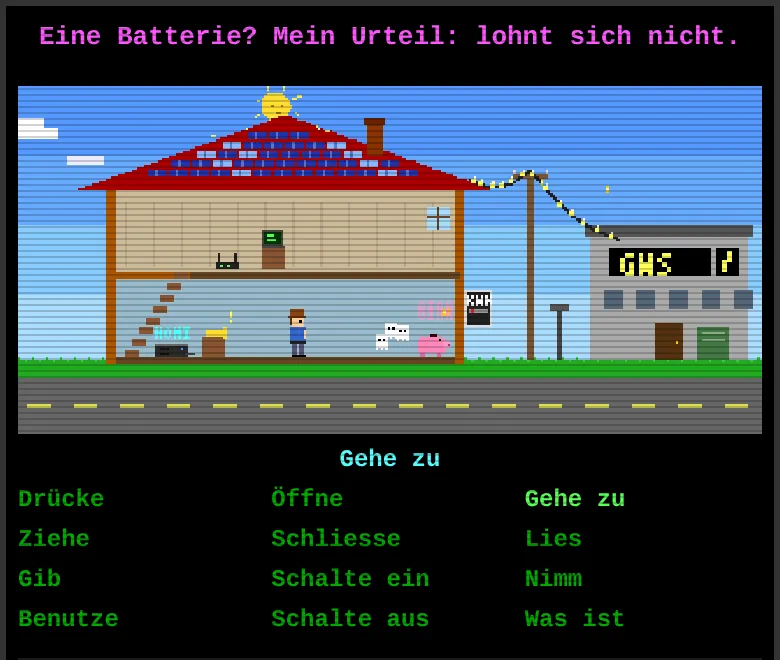
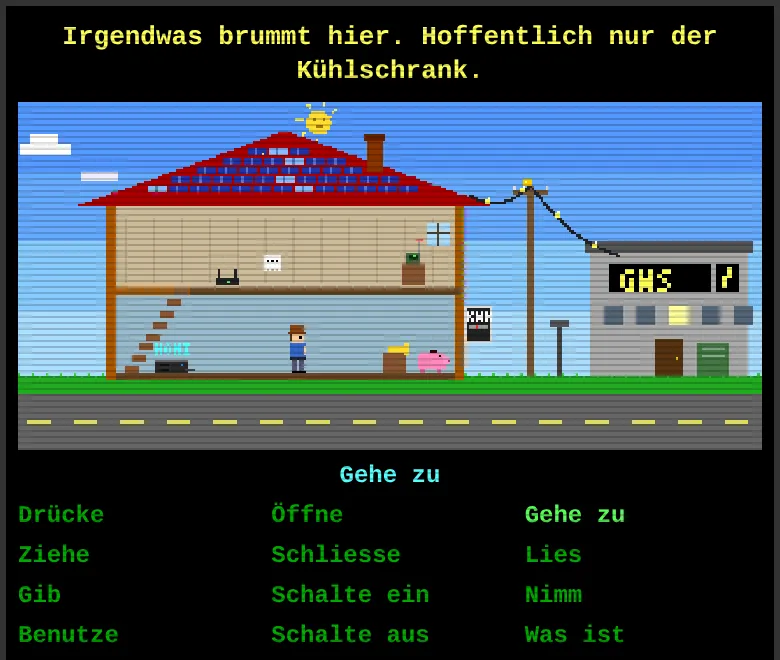
Domus-Beitrag: nur Retro-Screenshots, Homebrew-Ton mit 25 Jahren Infrastruktur, Bilder zweispaltig

diff --git a/index.html b/index.html
@@ -57,14 +57,14 @@ Der Fokus liegt auf verständlicher Beratung, technisch sauberen Lösungen und e
     <h2>🎮 Unser Haus als Retro-Adventure</h2>
     <p>Ich wollte eigentlich nur wissen, was unsere Solaranlage gerade so treibt. Herausgekommen ist ein kleines Pixel-Häuschen, das auf <a href="https://home.biber.solar" target="_blank" rel="noopener">home.biber.solar</a> lebt, mit dem Wetter mitzieht und mir nebenbei zeigt, ob ich mit der Sonne gerade Geld verdiene oder verbrate.</p>
     <div class="handy-reihe">
-        <figure><img src="domus-retro-haus.webp" alt="Pixel-Haus mit Solardach, Figur, Sparschwein und dem Gebäude der Gemeindewerke auf dem Handy" loading="lazy" width="390" height="330"><figcaption>Das Haus, live</figcaption></figure>
-        <figure><img src="domus-retro-knopf.webp" alt="Grosser roter Knopf «Wechselrichter AUS» in gelb-schwarz gestreiftem Rahmen" loading="lazy" width="372" height="565"><figcaption>Der rote Knopf</figcaption></figure>
-        <figure><img src="domus-app-uebersicht.webp" alt="homi-App: Energiefluss von Solar, Haus und Netz mit Tageswerten" loading="lazy" width="390" height="844"><figcaption>homi als App</figcaption></figure>
-        <figure><img src="domus-app-berater.webp" alt="homi-App: Energieberater mit drei Tipps und Ersparnis pro Jahr" loading="lazy" width="390" height="844"><figcaption>Der Energieberater</figcaption></figure>
+        <figure><img src="domus-retro-haus.webp" alt="Pixel-Haus mit Solardach, Figur, Sparschwein und dem Gebäude der Gemeindewerke" loading="lazy" width="390" height="330"><figcaption>Das Haus, live</figcaption></figure>
+        <figure><img src="domus-retro-knopf.webp" alt="Grosser roter Knopf «Wechselrichter AUS» in gelb-schwarz gestreiftem Rahmen" loading="lazy" width="372" height="409"><figcaption>Der rote Knopf</figcaption></figure>
+        <figure><img src="domus-retro-kasse.webp" alt="Kassenbuch: Solarleistung, Verbrauch, Netz und was ich gerade bezahle oder bekomme" loading="lazy" width="390" height="272"><figcaption>Das Kassenbuch</figcaption></figure>
+        <figure><img src="domus-retro-berater.webp" alt="Wochenbericht und Energieberater mit drei Tipps in Franken" loading="lazy" width="390" height="264"><figcaption>Berater &amp; Wochenbericht</figcaption></figure>
     </div>
-    <p>Das Dach trägt Solarkacheln, die im Sonnenlicht glitzern, eine kleine Figur mit Hut stapft ums Haus – und im Hintergrund rechnet homi in Echtzeit mit. Alle paar Sekunden holt es frische Zahlen vom Fronius, zieht die Stromtarife der Gemeindewerke und die Börsenpreise dazu und lässt Münzen über den Bildschirm kullern: Fliesst Geld ins Sparschwein, war die Sonne heute meine Kollegin; fliesst es raus, hört man ein leises «OINK».</p>
-    <p>Inzwischen ist aus dem Spielzeug ein richtiger Mitbewohner geworden. Es gibt einen <b>grossen roten Knopf</b>, der den Wechselrichter abschaltet (zweimal drücken, wir sind ja nicht im Kino), und bei negativen Strompreisen drosselt homi die Anlage von selbst auf den Eigenverbrauch. Eine smarte Steckdose wird zur <b>Solarladestation</b> und lädt Handy und Tablet nur dann, wenn Sonnenstrom übrig ist. Ein <b>Energieberater</b> liest die Messwerte und sagt mir in Franken, wo es sich lohnt – inklusive ehrlicher Antwort, ob sich eine Batterie rechnet (Spoiler: noch nicht). Montags kommt der Wochenbericht aufs Handy.</p>
-    <p>Dahinter steckt keine Bastelei, sondern eine eigene Plattform: dedizierte Hardware im Haus mit Failsafe-Logik, täglichen verschlüsselten Backups und Überwachung rund um die Uhr – ein Reserve-System für die automatische Übernahme kommt dazu. Betrieben wird sie nach den Prinzipien des Site Reliability Engineering, neu gedacht mit den Möglichkeiten der KI: Updates werden automatisch geprüft und bei Problemen zurückgerollt, und Störungen melden sich, bevor jemand sie bemerkt. Weil das so gut funktioniert, gibt es homi jetzt auch für andere Häuser: <a href="https://homi.solar" target="_blank" rel="noopener">homi.solar</a>.</p>
+    <p>Das Dach trägt Solarkacheln, die im Sonnenlicht glitzern, eine kleine Figur mit Hut stapft ums Haus, und Gespenster, Alien-Detektor und ein brummender Kühlschrank wollen untersucht werden – ganz wie in den Adventures von früher. Im Hintergrund rechnet das Ganze in Echtzeit mit: Alle paar Sekunden frische Zahlen vom Fronius, dazu die Tarife der Gemeindewerke und die Börsenpreise. Fliesst Geld ins Sparschwein, war die Sonne heute meine Kollegin; fliesst es raus, hört man ein leises «OINK».</p>
+    <p>Inzwischen kann das Spiel mehr als zuschauen. Ein <b>grosser roter Knopf</b> schaltet den Wechselrichter ab (zweimal drücken, wir sind ja nicht im Kino), und die Anlage drosselt sich selbst, sobald Einspeisen Geld kosten würde – gerechnet mit den Regeln, die ab 2027 gelten. Eine smarte Steckdose wird zur <b>Solarladestation</b> für Handy und Tablet, ein <b>Energieberater</b> sagt in Franken, wo es sich lohnt (und ehrlich, ob sich eine Batterie rechnet: noch nicht), und montags kommt der Wochenbericht.</p>
+    <p>Ein Homebrew-Projekt, klar – aber eines mit Potenzial. Ich mache seit 25 Jahren IT-Infrastruktur, und so läuft auch dieses Spielzeug: dedizierte Hardware im Haus mit Failsafe-Logik, täglichen verschlüsselten Backups und Überwachung rund um die Uhr; ein Reserve-System für die automatische Übernahme kommt dazu. Betrieben nach den Prinzipien des Site Reliability Engineering, neu gedacht mit den Möglichkeiten der KI. Weil das so gut funktioniert, wird daraus gerade mehr: <a href="https://homi.solar" target="_blank" rel="noopener">homi.solar</a>.</p>
 </section>
 
  <section id="contact">

diff --git a/biberstyle.css b/biberstyle.css
@@ -516,9 +516,9 @@ body::before{
   font-size: 0.9rem;
   color: var(--muted2);
 }
-/* #Domus: Handy-Screenshots nebeneinander, auf schmalen Bildschirmen 2 pro Reihe */
-.handy-reihe{ display: grid; grid-template-columns: repeat(4, minmax(0, 1fr)); gap: 14px; margin: 18px 0; align-items: start; }
+/* #Domus: Handy-Screenshots der Retro-Seite, immer 2 pro Reihe (am Computer gut lesbar) */
+.handy-reihe{ display: grid; grid-template-columns: repeat(2, minmax(0, 1fr)); gap: 18px; margin: 18px 0; align-items: start; max-width: 820px; }
 .handy-reihe figure{ margin: 0; }
 .handy-reihe img{ display: block; width: 100%; height: auto; border-radius: 18px; border: 3px solid #222; box-shadow: var(--shadow); background: #000; }
 .handy-reihe figcaption{ margin-top: 6px; font-size: .85rem; color: var(--muted); text-align: center; }
-@media (max-width: 700px){ .handy-reihe{ grid-template-columns: repeat(2, minmax(0, 1fr)); gap: 10px; } }
+@media (max-width: 700px){ .handy-reihe{ gap: 10px; } }

diff --git a/CLAUDE.md b/CLAUDE.md
@@ -26,7 +26,7 @@ The site is hosted on an OVH VPS in Strasbourg (per the footer in `index.html`).
 - **`#training`**: covers both the full Solarteur knowledge base (training.biber.solar, MkDocs site) and the formula collection within the same GitHub-versioned content (`solartech/basics.md`) as one combined article — states its content and target audience explicitly rather than splitting the formula link out into `#links`.
 - **`geo.html`**: a self-contained Swiss address geocoder — queries the `api3.geo.admin.ch` SearchServer API, converts WGS84 lon/lat to LV95 (Swiss coordinate system) via an approximate formula, and builds links/iframes into `geo.zh.ch` cadastral maps and the federal solar-suitability map (`map.geo.admin.ch`). All logic is inline in the page; no shared JS.
 - **`verkaufsleitfaden.html`**: a self-contained sales guide for solar consultants (Fachberater Solar) — negotiation/argumentation techniques (PLN model, question types, closing signals), synthesized from an external sales trainer's script and a workshop flipchart photo protocol (both credited in the footer). Same standalone single-file style as `solar-handbook/index.html` (own inline `<style>`, not `biberstyle.css`), but lives at the repo root rather than in a subfolder.
-- **`#Domus`**: a blog post for the "Domus" home-server project (Home Assistant, an Intel NUC, and a retro-game-style live energy dashboard at `home.biber.solar`, source at `github.com/patbiber/domus`) — the short, witty story (pixel house, red inverter button, solar charging plug, energy advisor, link to homi.solar), with four phone screenshots (`domus-*.webp`) in a `.handy-reihe` grid (styles at the end of `biberstyle.css`). `domus-retro-screenshot.png` is the older desktop screenshot, no longer used on the page. Patrick's wish (19.10.2026): the post addresses investors – describe the platform (dedicated hardware, failsafe, encrypted backups, monitoring, SRE with AI) and do NOT name the NUC or Claude Code; keep claims true (the reserve system is still being built). There is no standalone technical write-up page for it (a `domus-projekt.html` existed briefly but was removed).
+- **`#Domus`**: a blog post for the "Domus" home-server project (Home Assistant, an Intel NUC, and a retro-game-style live energy dashboard at `home.biber.solar`, source at `github.com/patbiber/domus`) — the short, witty story (pixel house, red inverter button, solar charging plug, energy advisor, link to homi.solar), with four phone screenshots of the retro page only (`domus-retro-*.webp`; Patrick 19.10.2026: no homi-app screenshots, homebrew tone, mention his 25 years in IT infrastructure) in a `.handy-reihe` grid (styles at the end of `biberstyle.css`). `domus-retro-screenshot.png` is the older desktop screenshot, no longer used on the page. Patrick's wish (19.10.2026): the post addresses investors – describe the platform (dedicated hardware, failsafe, encrypted backups, monitoring, SRE with AI) and do NOT name the NUC or Claude Code; keep claims true (the reserve system is still being built). There is no standalone technical write-up page for it (a `domus-projekt.html` existed briefly but was removed).
 - **Legal pages** (`impressum_de.html`, `datenschutzerklaerung_de.html`): German-language imprint and privacy policy, standalone static pages.
 - **`.gitignore`** excludes `.env` and `node_modules/` — assume any other file present is meant to be tracked (including large media files).
 
